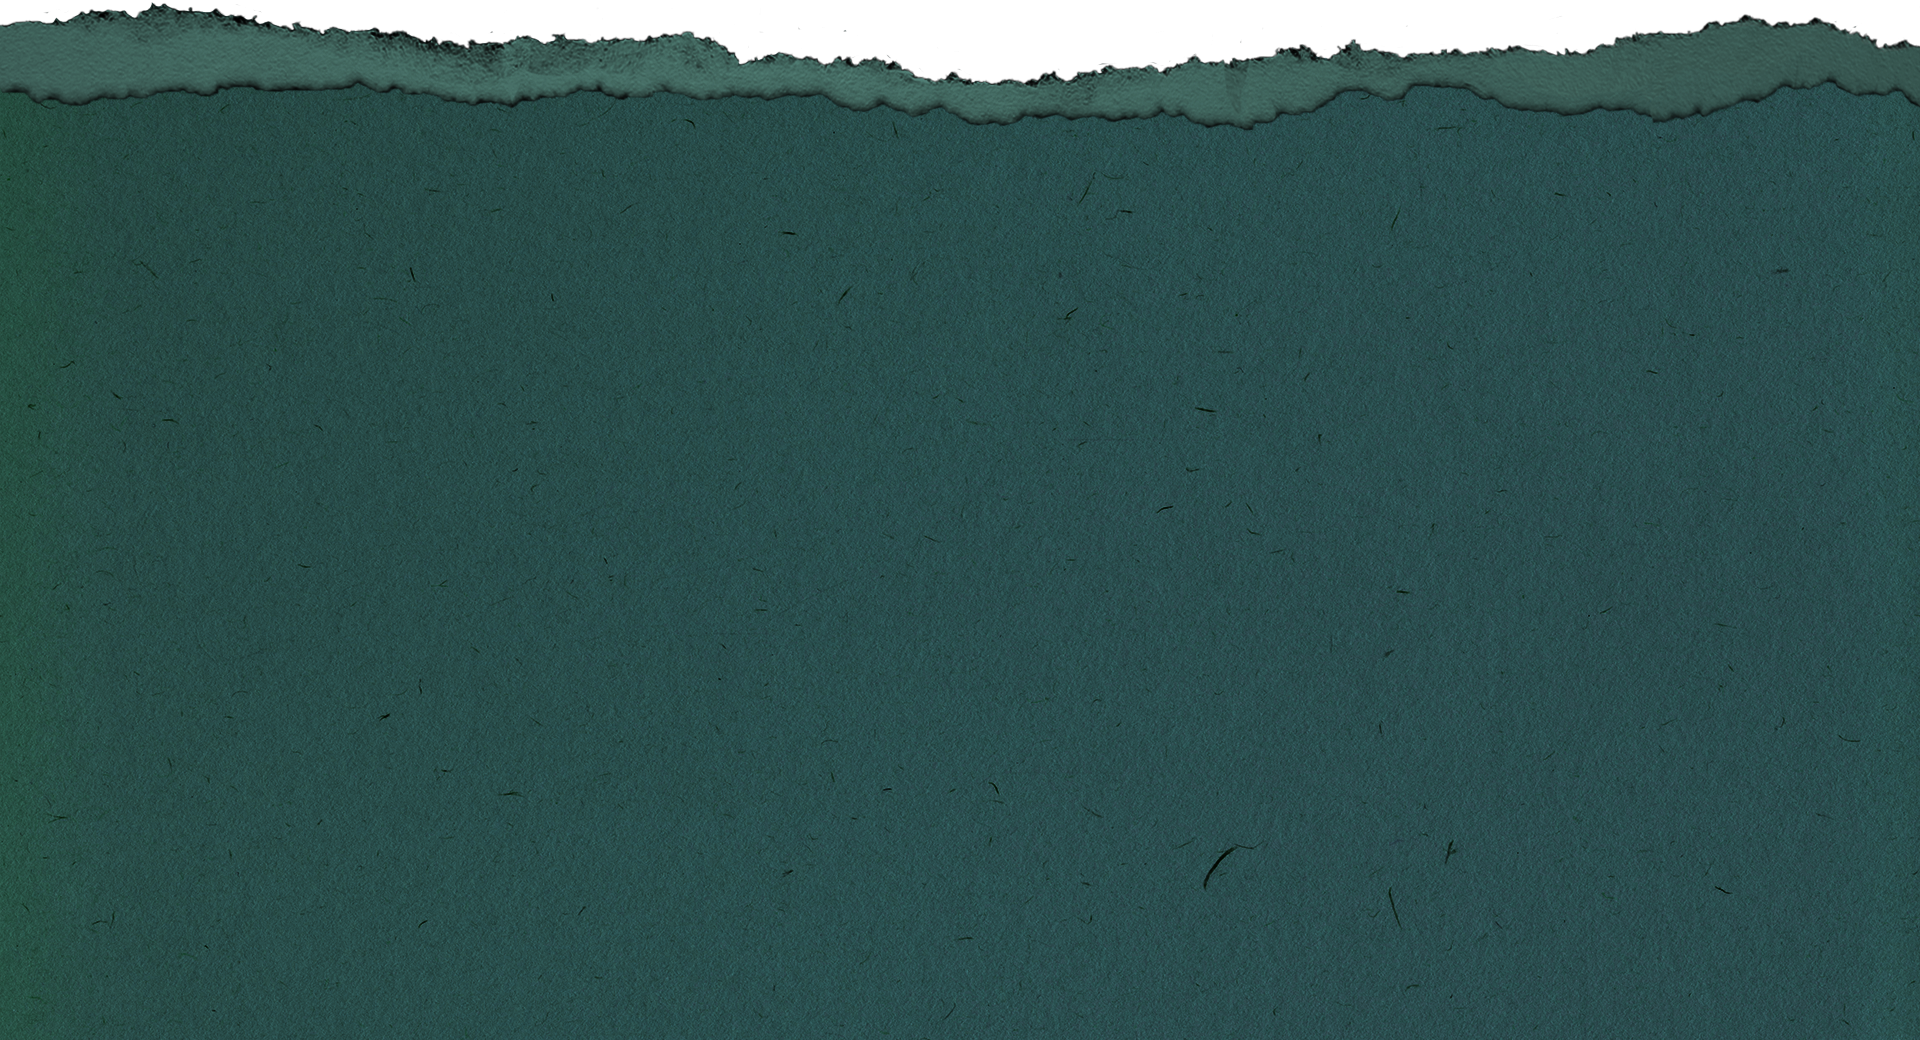
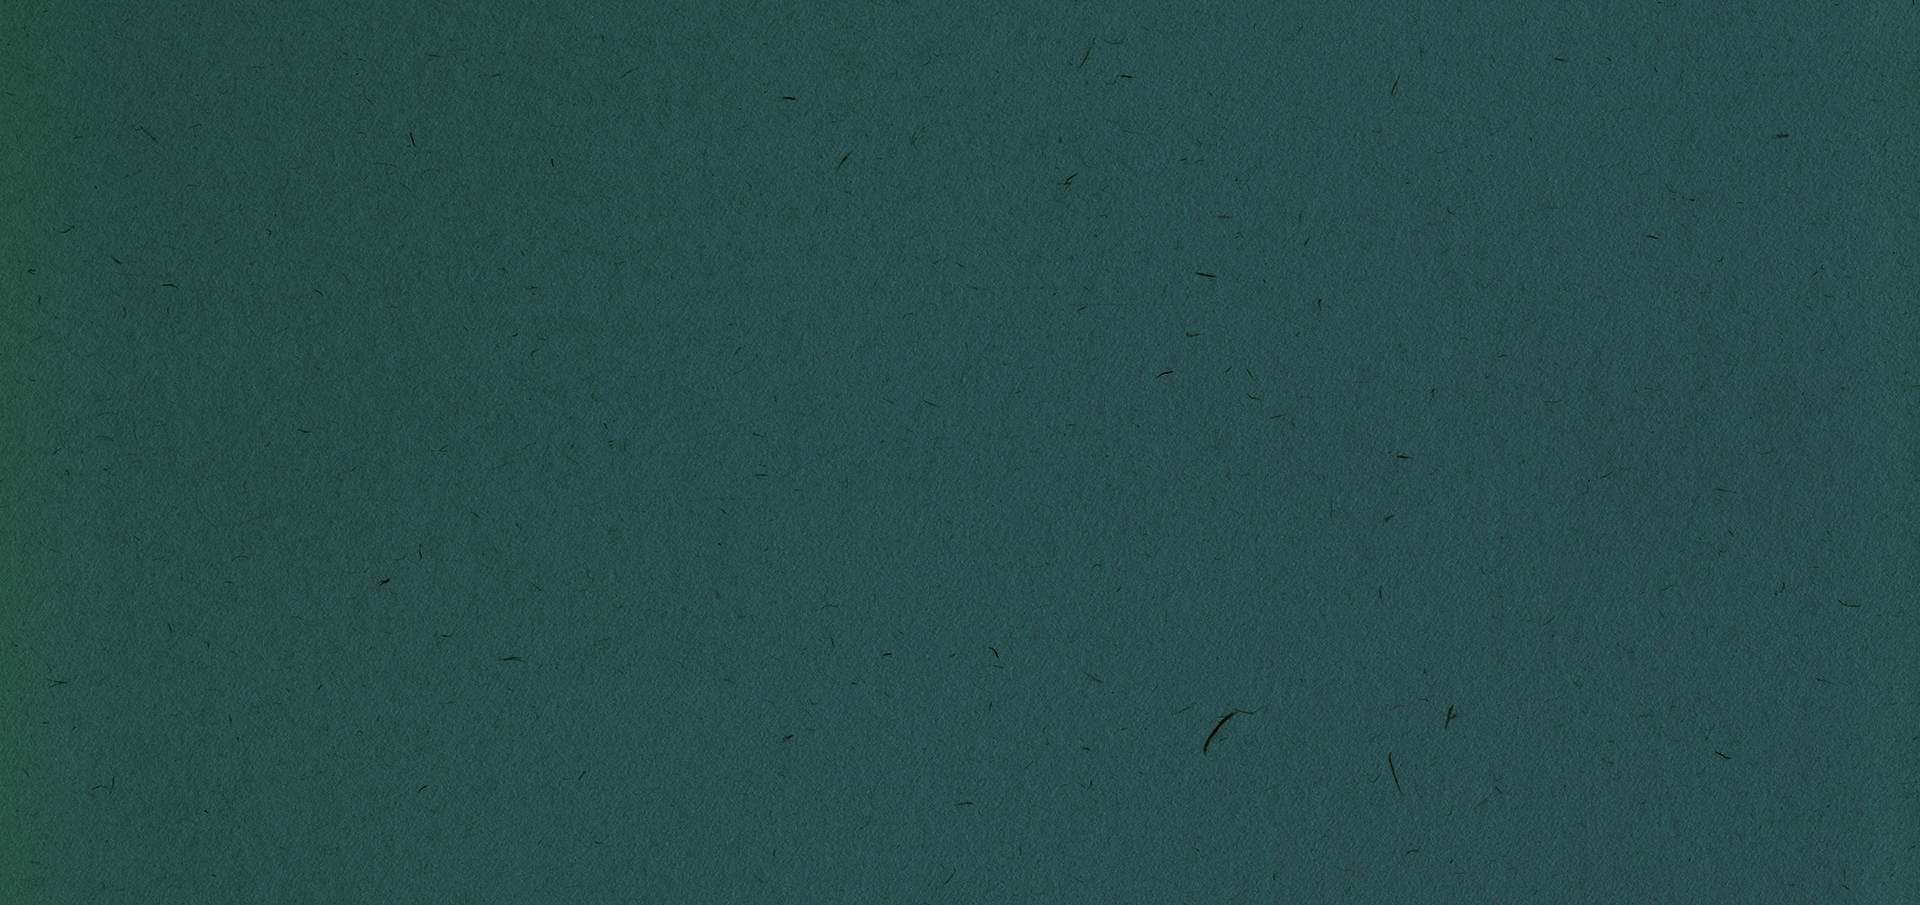
values imgs

Changed region(s): [[0.0, 0.0, 1.0, 0.1238], [0.9375, 0.0619, 0.9688, 0.0928], [0.625, 0.8044, 0.6562, 0.8354]]

diff --git a/assets/css/style.css b/assets/css/style.css
@@ -625,11 +625,15 @@ section {
 # Values
 --------------------------------------------------------------*/
 .values {
+  background: #1C4E45;
   background: url(../img/values-bg.png) top center no-repeat;
   background-size: cover;
 }
 
 .values .box {
+  background: #ffffff;
+  background: url(../img/values-box.png) top center no-repeat;
+  background-size: cover;
   padding: 30px;
   box-shadow: 0px 0 5px rgba(1, 41, 112, 0.08);
   text-align: center;
